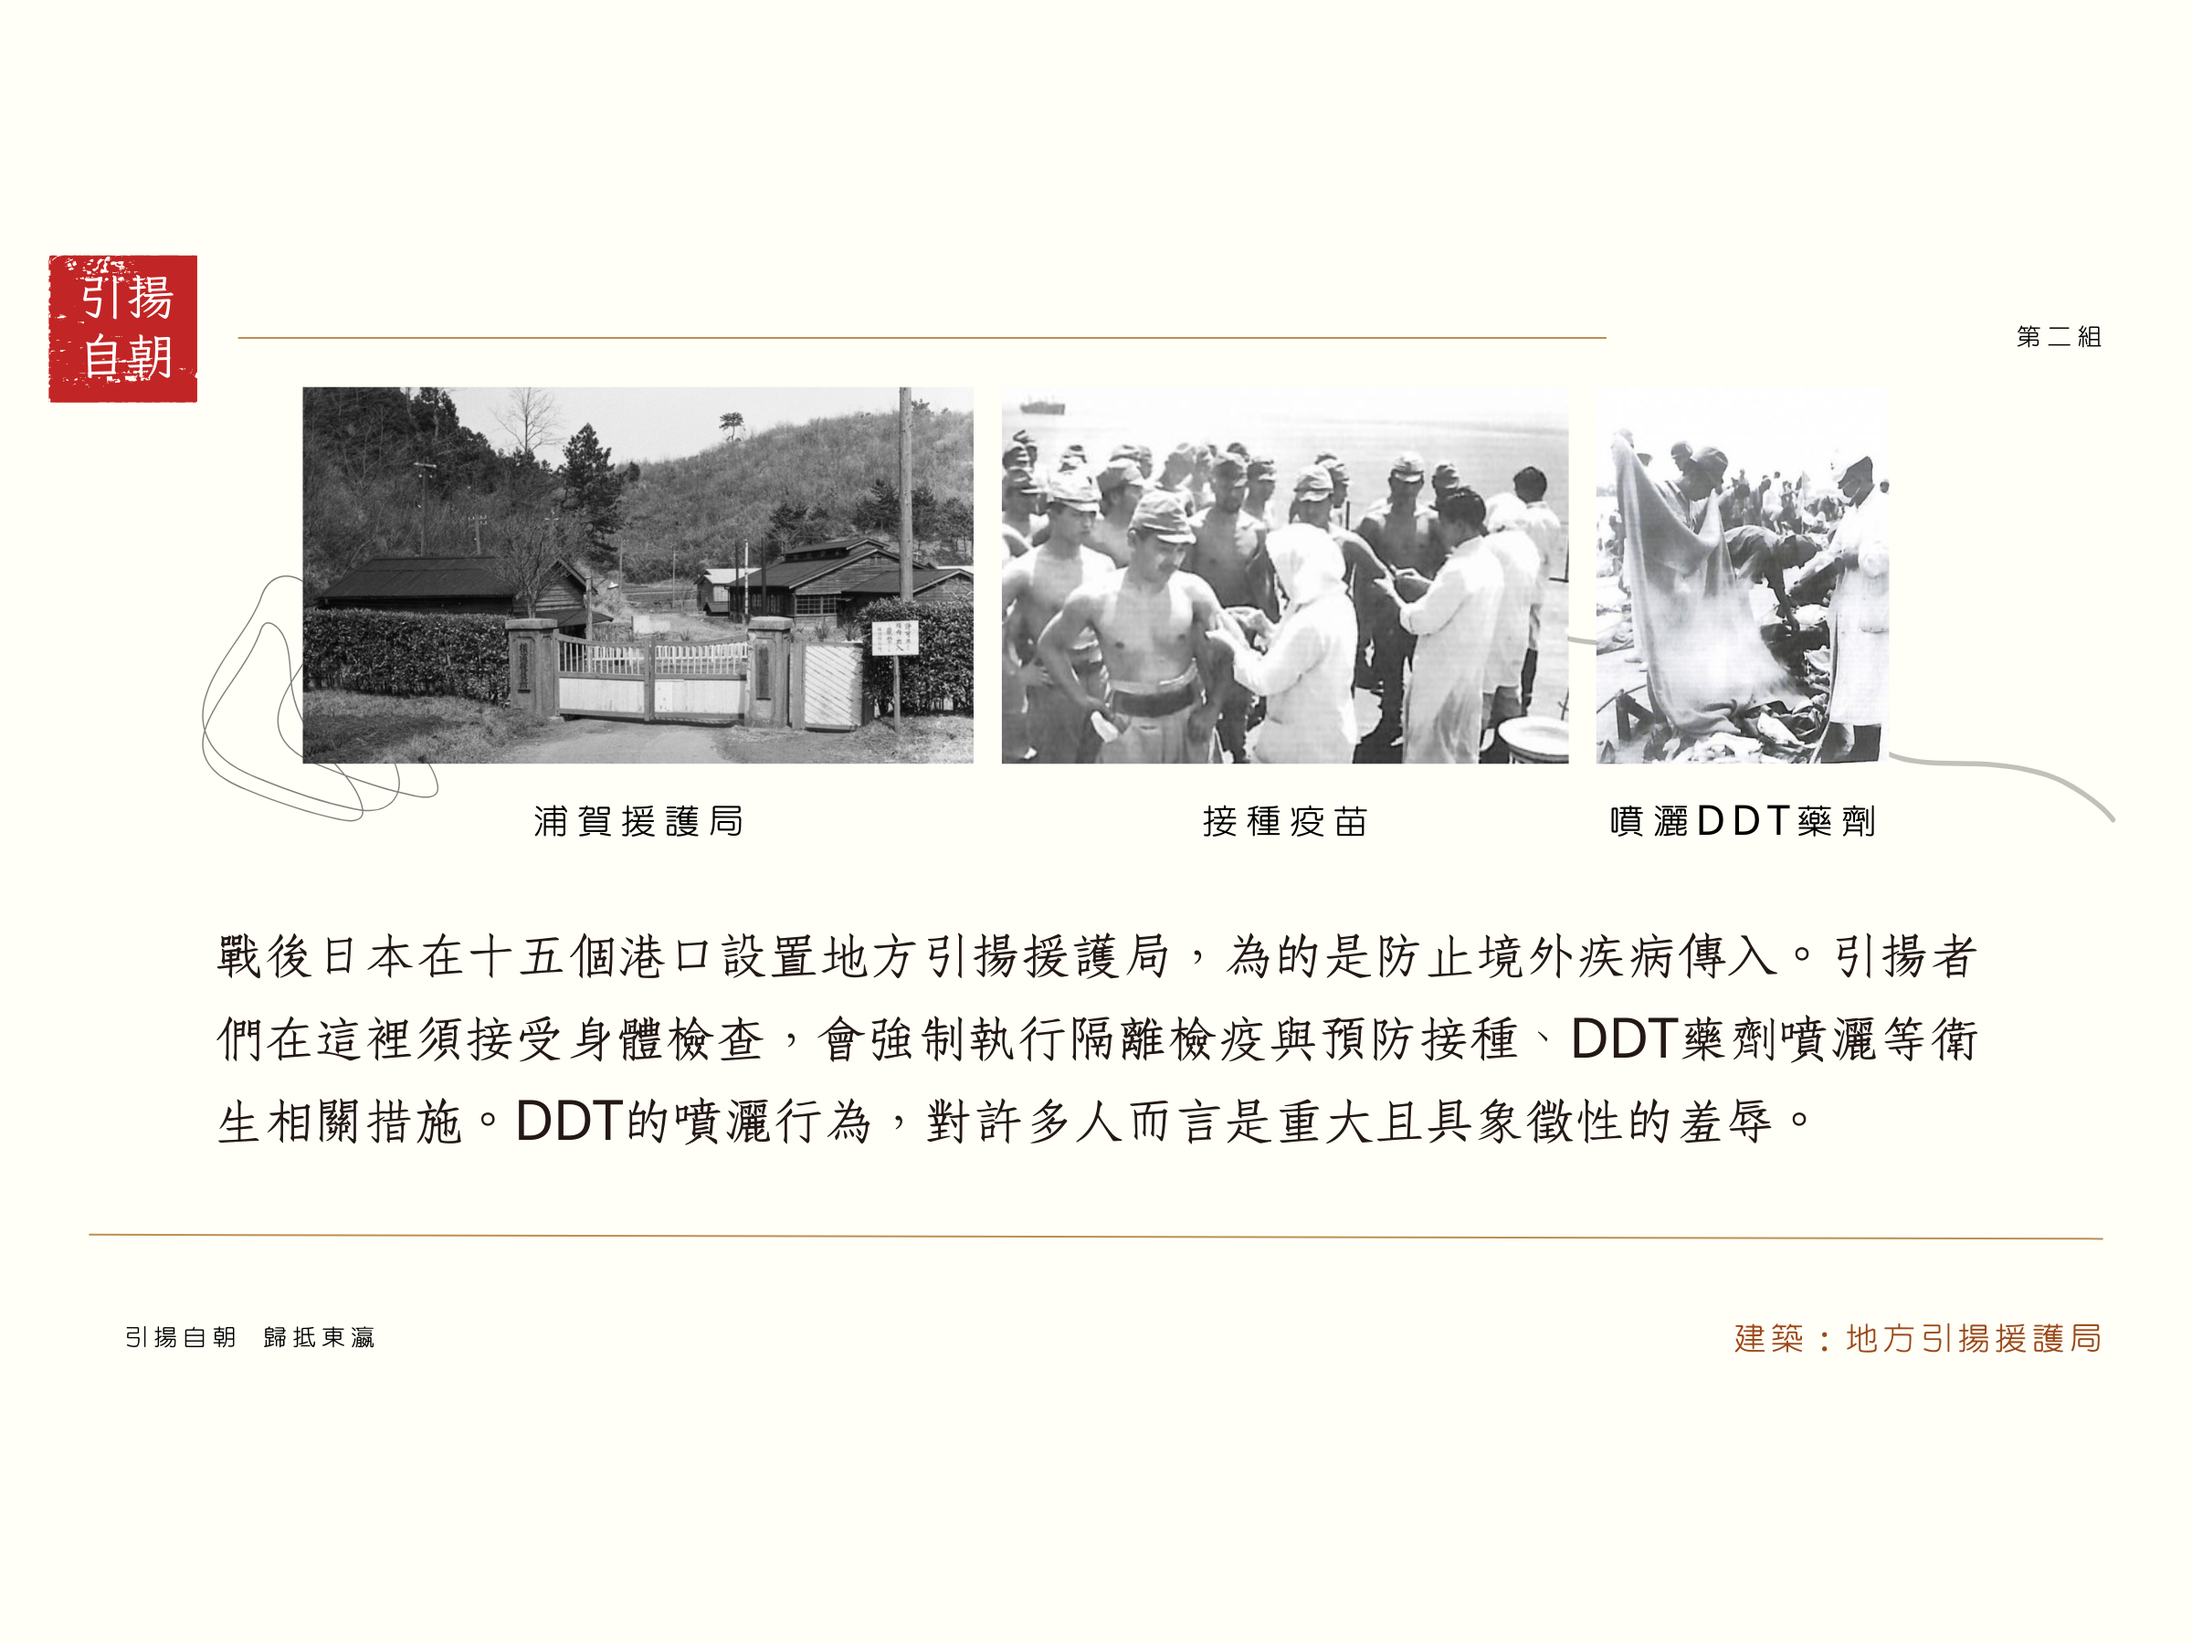
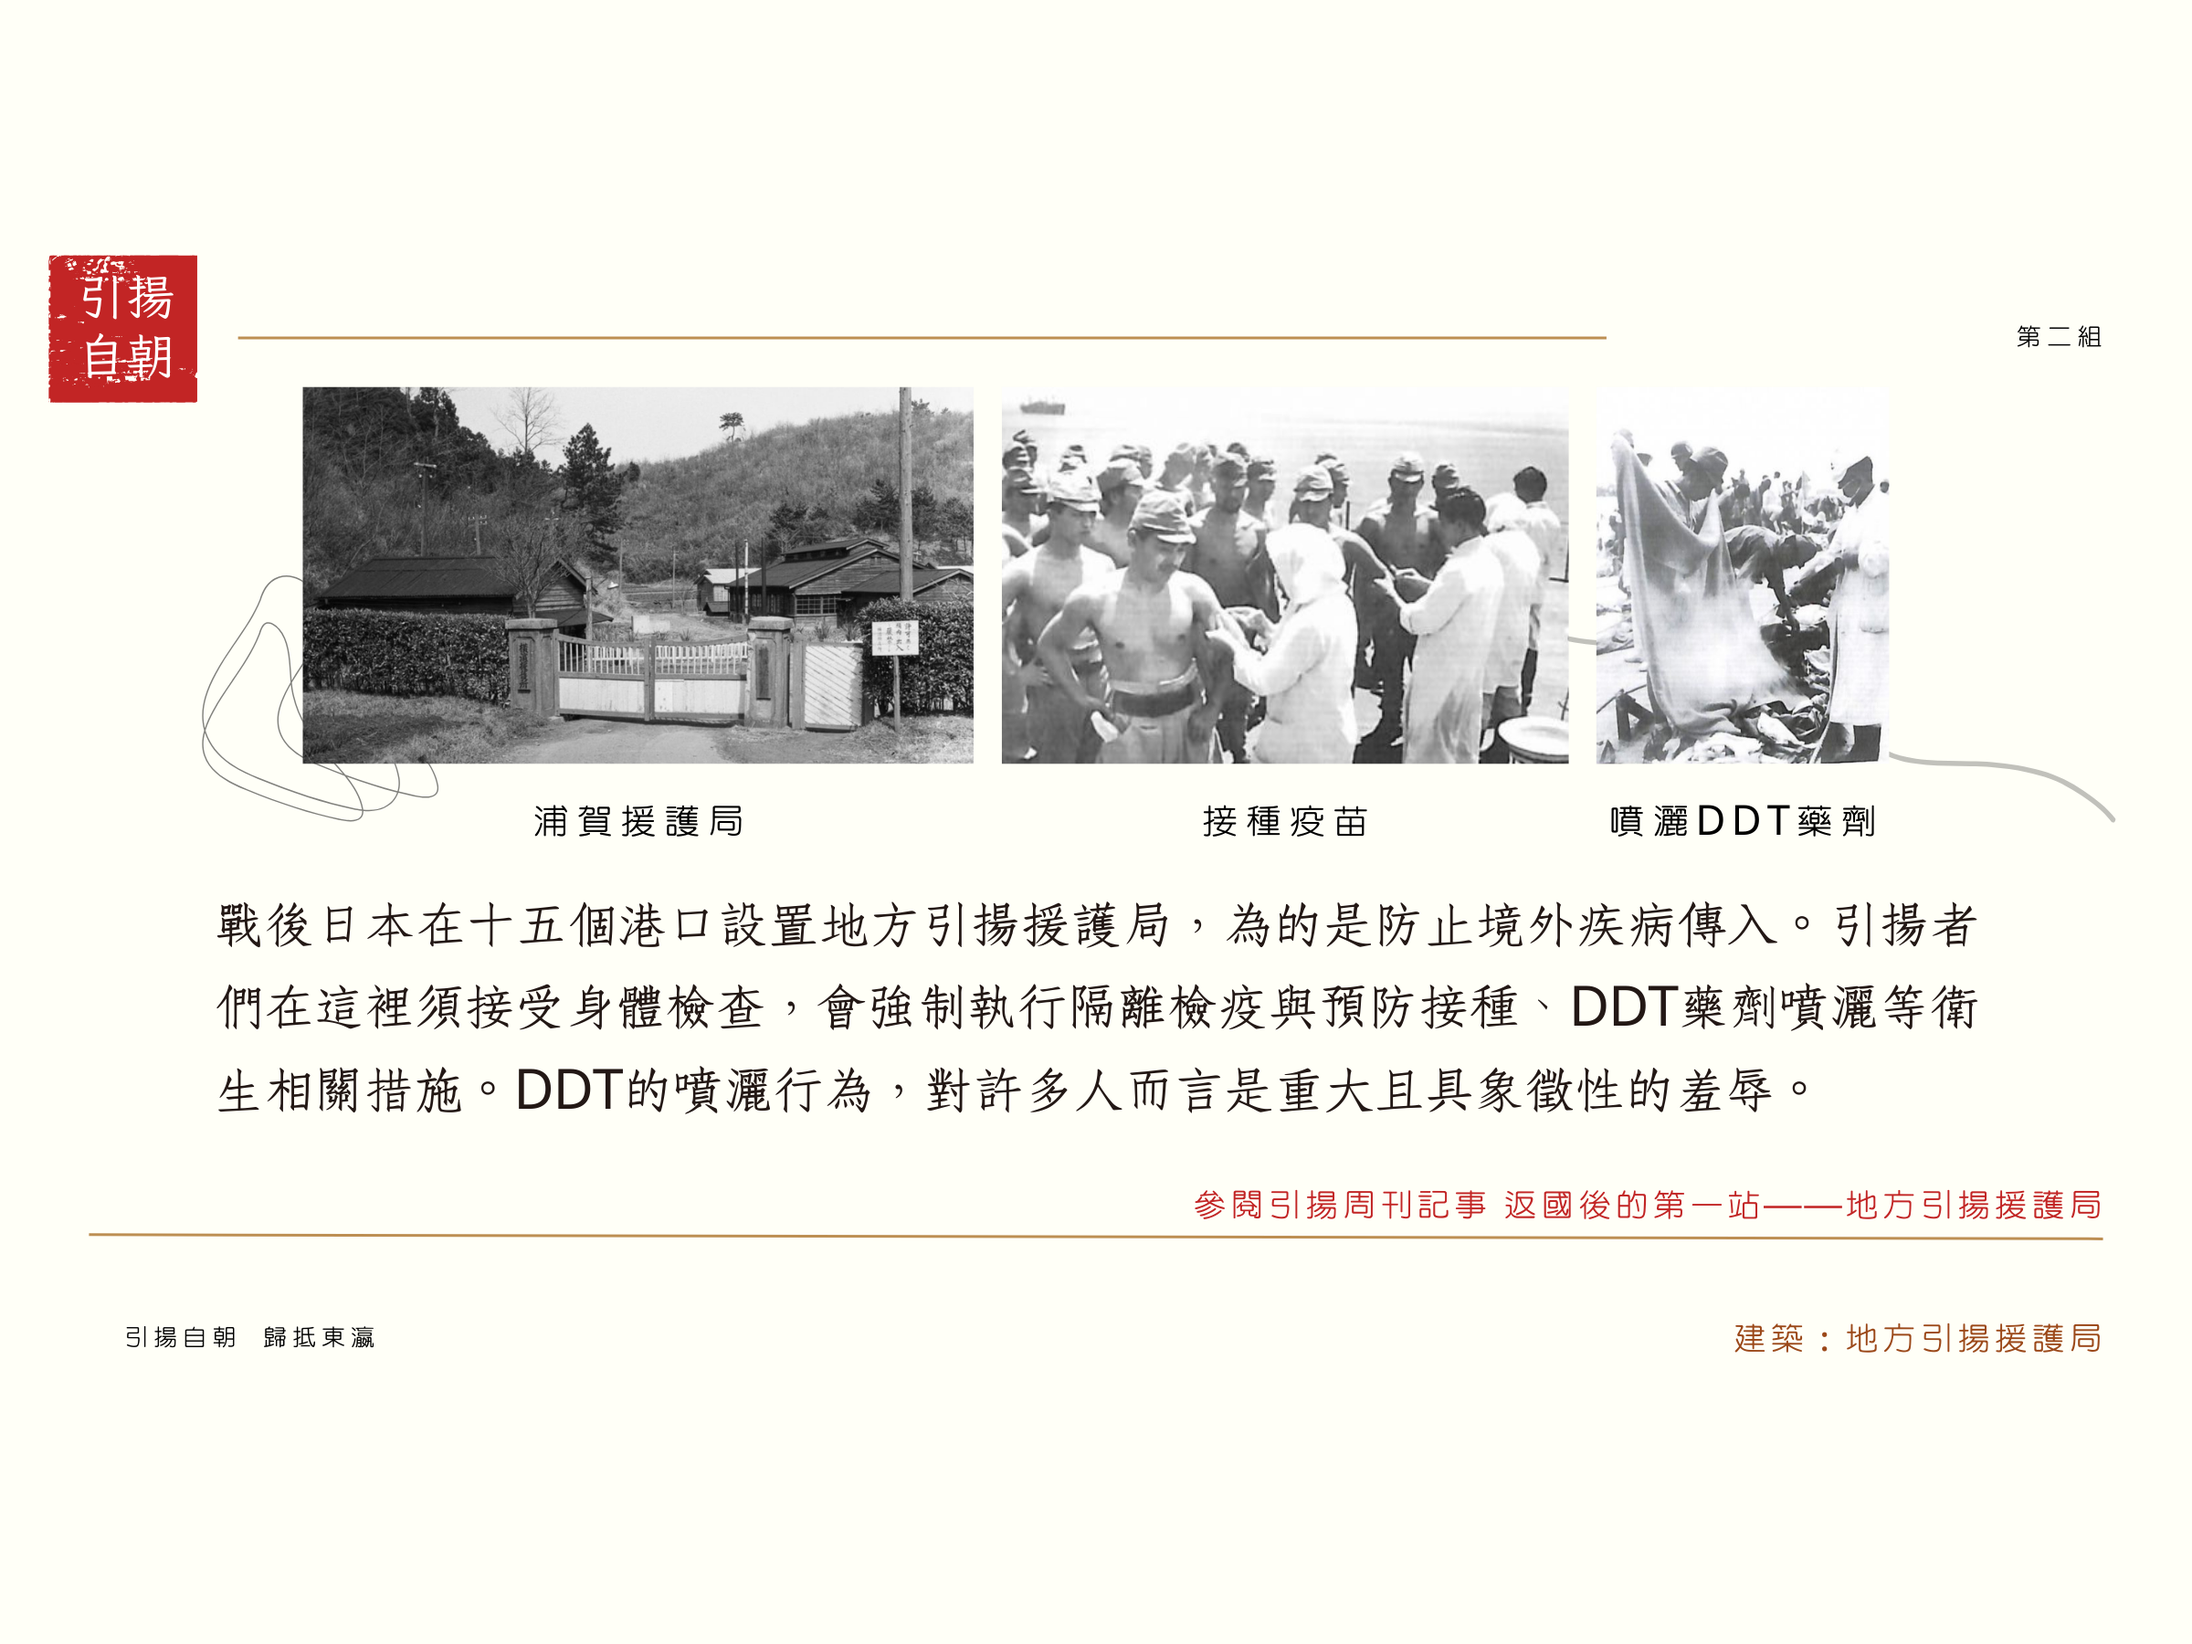
magazine link

Changed region(s): [[0.0938, 0.5289, 0.9062, 0.7467], [0.8438, 0.7156, 0.9688, 0.7467]]

diff --git a/event_pages_panel.py b/event_pages_panel.py
@@ -1,7 +1,7 @@
 import pygame
 from settings import *
 import random
-import button_tr
+import button_tr_p
 import button
 
 class Pages_Panel:
@@ -14,6 +14,8 @@ class Pages_Panel:
         self.pages = []
         self.current_page = 0
         self.page_count = 0
+        self.button_link = None
+        self.button_link_page = 0
         if (tile_num == 15):
             temp_image = pygame.image.load('./event_img/15_0.png')
             temp_image = pygame.transform.smoothscale(temp_image, (window_width, window_height))
@@ -24,6 +26,16 @@ class Pages_Panel:
             self.pages.append(temp_image)
             self.page_count = 2
 
+            self.button_link = button_tr_p.AnimatedButton(
+                rect=(640, 640, 530, 35),
+                text="",
+                font=pygame.font.SysFont(None, 36),
+                color_idle=(0, 0, 0),  # unused, but required
+                color_hover=(200, 200, 200),  # shown as semi-transparent white
+                color_click=(150, 150, 150)
+            )
+            self.button_link_page = 1
+
         if (tile_num == 19):
             temp_image = pygame.image.load('./event_img/19_0.png')
             temp_image = pygame.transform.smoothscale(temp_image, (window_width, window_height))
@@ -33,6 +45,15 @@ class Pages_Panel:
             temp_image = pygame.transform.smoothscale(temp_image, (window_width, window_height))
             self.pages.append(temp_image)
             self.page_count = 2
+            self.button_link = button_tr_p.AnimatedButton(
+                rect=(420, 640, 750, 35),
+                text="",
+                font=pygame.font.SysFont(None, 36),
+                color_idle=(0, 0, 0),  # unused, but required
+                color_hover=(200, 200, 200),  # shown as semi-transparent white
+                color_click=(150, 150, 150)
+            )
+            self.button_link_page = 1
 
         if (tile_num == 22):
             temp_image = pygame.image.load('./event_img/22_0.png')
@@ -43,6 +64,15 @@ class Pages_Panel:
             temp_image = pygame.transform.smoothscale(temp_image, (window_width, window_height))
             self.pages.append(temp_image)
             self.page_count = 2
+            self.button_link = button_tr_p.AnimatedButton(
+                rect=(440, 640, 730, 35),
+                text="",
+                font=pygame.font.SysFont(None, 36),
+                color_idle=(0, 0, 0),  # unused, but required
+                color_hover=(200, 200, 200),  # shown as semi-transparent white
+                color_click=(150, 150, 150)
+            )
+            self.button_link_page = 1
         if (tile_num == 23):
             temp_image = pygame.image.load('./event_img/23_0.png')
             temp_image = pygame.transform.smoothscale(temp_image, (window_width, window_height))
@@ -78,6 +108,9 @@ class Pages_Panel:
         #self.surface.fill((255, 255, 255, 128),rect=pygame.Rect(0, 0, 200, 200))
         
         self.button.draw(self.surface)
+        if ((self.button_link is not None ) and self.button_link_page == self.current_page):
+            self.button_link.update(mouse_pos, mouse_pressed)
+            self.button_link.draw(self.surface)
         screen.blit(self.surface, self.rect.topleft)
     
     def flip_page(self):

diff --git a/button_tr_p.py b/button_tr_p.py
@@ -1,0 +1,62 @@
+import pygame
+
+class AnimatedButton:
+    def __init__(self, rect, text, font, color_idle, color_hover, color_click):
+        self.rect = pygame.Rect(rect)
+        self.font = font
+        self.text = text
+        self.color_idle = color_idle
+        self.color_hover = color_hover
+        self.color_click = color_click
+        self.current_state = "idle"  # idle, hover, or click
+
+        self._render_text()
+
+    def _render_text(self):
+        self.text_surf = self.font.render(self.text, True, (255, 255, 255))
+        self.text_rect = self.text_surf.get_rect(center=self.rect.center)
+
+    def set_text(self, new_text):
+        self.text = new_text
+        self._render_text()
+
+    def update(self, mouse_pos, mouse_pressed):
+        if self.rect.collidepoint(mouse_pos):
+            if mouse_pressed[0]:  # left mouse held
+                self.current_state = "click"
+            else:
+                self.current_state = "hover"
+        else:
+            self.current_state = "idle"
+
+    def draw(self, surface):
+        # Create transparent surface with alpha
+        button_surface = pygame.Surface(self.rect.size, pygame.SRCALPHA)
+
+        if self.current_state == "hover":
+            pygame.draw.rect(
+                button_surface,
+                (*self.color_hover, 128),  # half-transparent white
+                button_surface.get_rect(),
+                border_radius=12       # adjust radius as needed
+            )
+        elif self.current_state == "click":
+            pygame.draw.rect(
+                button_surface,
+                (*self.color_click, 128),  # fully opaque click color
+                button_surface.get_rect(),
+                border_radius=10
+            )
+        # idle: leave fully transparent
+
+        # Blit the semi-transparent background
+        surface.blit(button_surface, self.rect.topleft)
+
+        # Draw text directly onto the parent surface (not on the button_surface)
+        surface.blit(self.text_surf, self.text_rect)
+
+
+    def is_clicked(self, mouse_pos, events):
+        return self.rect.collidepoint(mouse_pos) and any(
+            event.type == pygame.MOUSEBUTTONDOWN and event.button == 1 for event in events
+        )

diff --git a/event.py b/event.py
@@ -5,6 +5,7 @@ import event_quiz_panel
 import event_info_panel
 import event_dice_panel
 import event_pages_panel
+import webbrowser
 def event_init(tile_num):
 
     if tile_num == 1:
@@ -166,6 +167,8 @@ def event_run(tile_num,panel,screen,mouse_pos, mouse_pressed,event_list):
         panel.frame_update(screen,mouse_pos, mouse_pressed)
     if (tile_num == 15):
         panel.frame_update(screen,mouse_pos, mouse_pressed)
+        if (panel.button_link.is_clicked(mouse_pos, event_list)):
+            webbrowser.open(settings.magazine_link_m_p1)
     #16 pass
     if (tile_num == 17):
         panel.frame_update(screen,mouse_pos, mouse_pressed)
@@ -193,6 +196,8 @@ def event_run(tile_num,panel,screen,mouse_pos, mouse_pressed,event_list):
         panel.frame_update(screen,mouse_pos, mouse_pressed)
     if (tile_num == 19):
         panel.frame_update(screen,mouse_pos, mouse_pressed)
+        if (panel.button_link.is_clicked(mouse_pos, event_list)):
+            webbrowser.open(settings.magazine_link_m_v2)
     if (tile_num == 20):
         panel.frame_update(screen,mouse_pos, mouse_pressed)
         #quiz
@@ -219,6 +224,8 @@ def event_run(tile_num,panel,screen,mouse_pos, mouse_pressed,event_list):
         panel.frame_update(screen,mouse_pos, mouse_pressed)
     if (tile_num == 22):
         panel.frame_update(screen,mouse_pos, mouse_pressed)
+        if (panel.button_link.is_clicked(mouse_pos, event_list)):
+            webbrowser.open(settings.magazine_link_m_v1)
     if (tile_num == 23):
         panel.frame_update(screen,mouse_pos, mouse_pressed)
     if (tile_num == 24):

diff --git a/settings.py b/settings.py
@@ -31,3 +31,12 @@ player_size_4 = (77,77)
 player_size_1 = (140,140)
 player_space_x = 75
 player_space_y = 75
+
+magazine_link = "https://drive.google.com/file/d/12IlPm0GuwmGAPIBkbdrxv_xv2q_jvyy8/preview#page=10"
+magazine_link_m = "https://mozilla.github.io/pdf.js/web/viewer.html?file=https://jre235series.github.io/NTU_East_Asia/%E5%BC%95%E6%8F%9A%E5%91%A8%E5%88%8A.pdf"
+
+magazine_link_m_v1 = "https://mozilla.github.io/pdf.js/web/viewer.html?file=https://jre235series.github.io/NTU_East_Asia/%E5%BC%95%E6%8F%9A%E5%91%A8%E5%88%8A.pdf#page=3"
+
+magazine_link_m_v2 = "https://mozilla.github.io/pdf.js/web/viewer.html?file=https://jre235series.github.io/NTU_East_Asia/%E5%BC%95%E6%8F%9A%E5%91%A8%E5%88%8A.pdf#page=4"
+
+magazine_link_m_p1 = "https://mozilla.github.io/pdf.js/web/viewer.html?file=https://jre235series.github.io/NTU_East_Asia/%E5%BC%95%E6%8F%9A%E5%91%A8%E5%88%8A.pdf#page=6"
